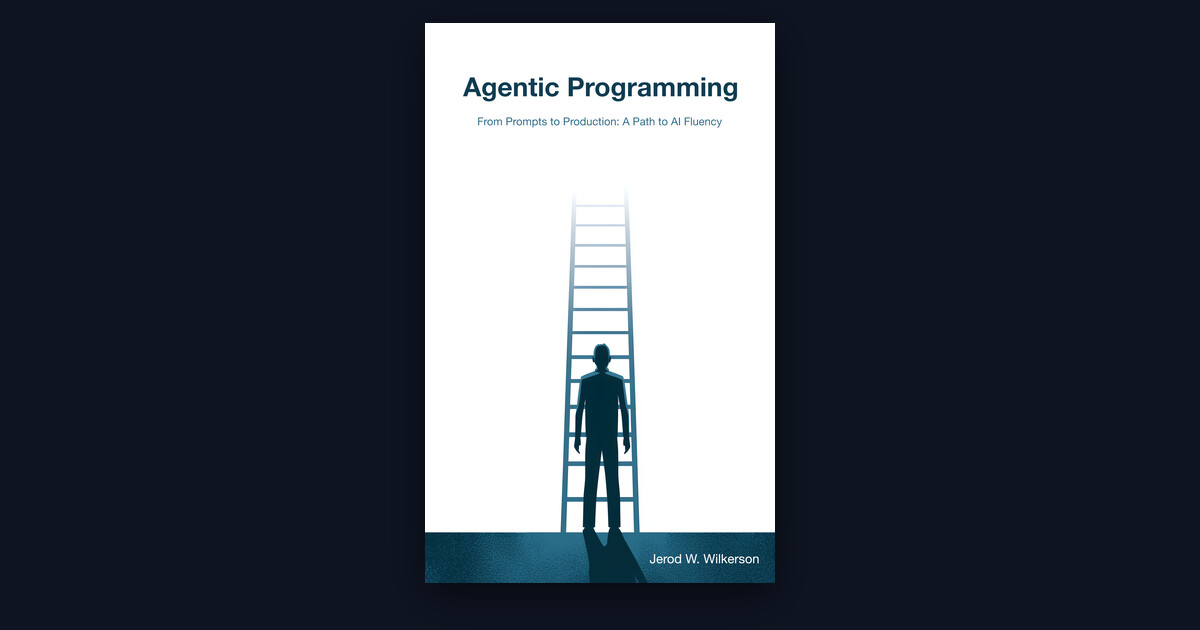
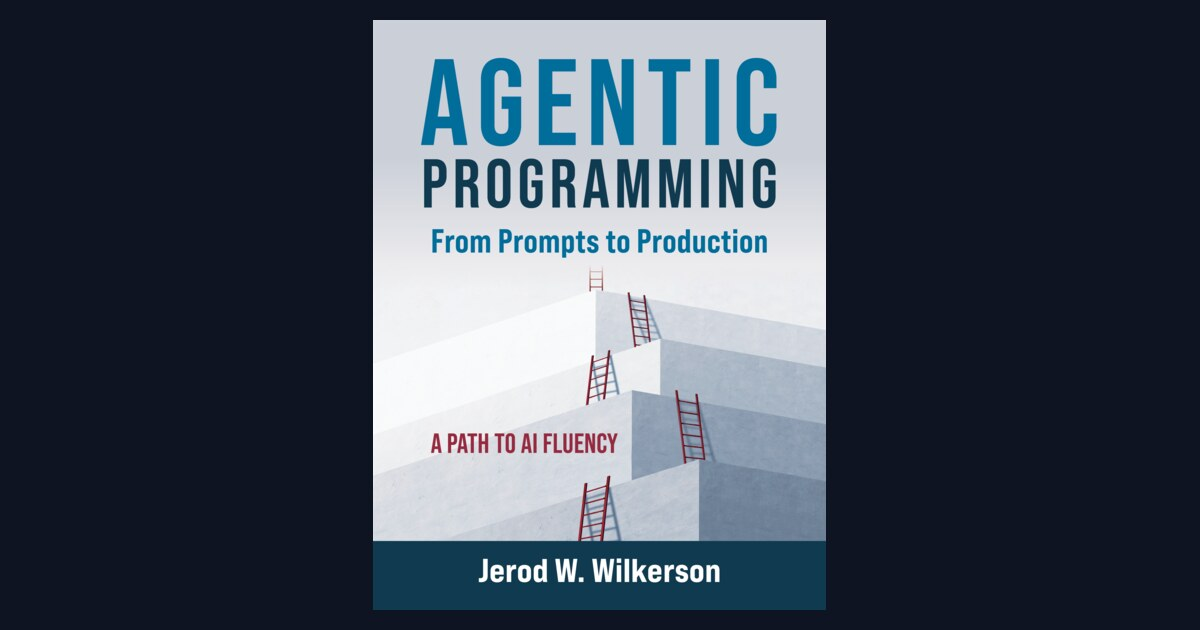
Switch to the flat final cover; regenerate hero, full-size, and share images
Use the flat FRONT-FINAL artwork for the hero instead of the 3D render,
restoring the rounded-corner/drop-shadow treatment, and regenerate
cover.png and the 1200x630 cover-share.jpg from the same source so social
previews match the site.

Changed region(s): [[0.3083, 0.0302, 0.7092, 0.9952]]

diff --git a/styles.css b/styles.css
@@ -119,10 +119,11 @@ a:hover { color: var(--accent-hover); text-decoration: underline; }
 }
 .hero-cover {
   flex: 0 0 auto;
-  width: 280px;
+  width: 240px;
   max-width: 100%;
   height: auto;
-  /* 3D render on a transparent background; the shadow is baked into the image. */
+  border-radius: 8px;
+  box-shadow: 0 24px 60px rgba(0, 0, 0, 0.55);
 }
 .hero-copy { max-width: 560px; }
 .hero-copy .tagline,
@@ -131,7 +132,7 @@ a:hover { color: var(--accent-hover); text-decoration: underline; }
 
 @media (max-width: 820px) {
   .hero-grid { flex-direction: column; text-align: center; gap: 36px; }
-  .hero-cover { width: 230px; }
+  .hero-cover { width: 200px; }
   .hero-copy .tagline,
   .hero-copy .subtitle { margin-left: auto; margin-right: auto; }
   .hero-copy .cta-row { justify-content: center; }

diff --git a/index.html b/index.html
@@ -24,7 +24,7 @@
 <body>
   <header class="hero">
     <div class="container hero-grid">
-      <img class="hero-cover" src="images/cover-web.png" width="640" height="1157" alt="Cover of Agentic Programming by Jerod W. Wilkerson">
+      <img class="hero-cover" src="images/cover-web.png" width="600" height="781" alt="Cover of Agentic Programming by Jerod W. Wilkerson">
       <div class="hero-copy">
       <p class="eyebrow">A book by Jerod W. Wilkerson</p>
       <h1>Agentic Programming</h1>
